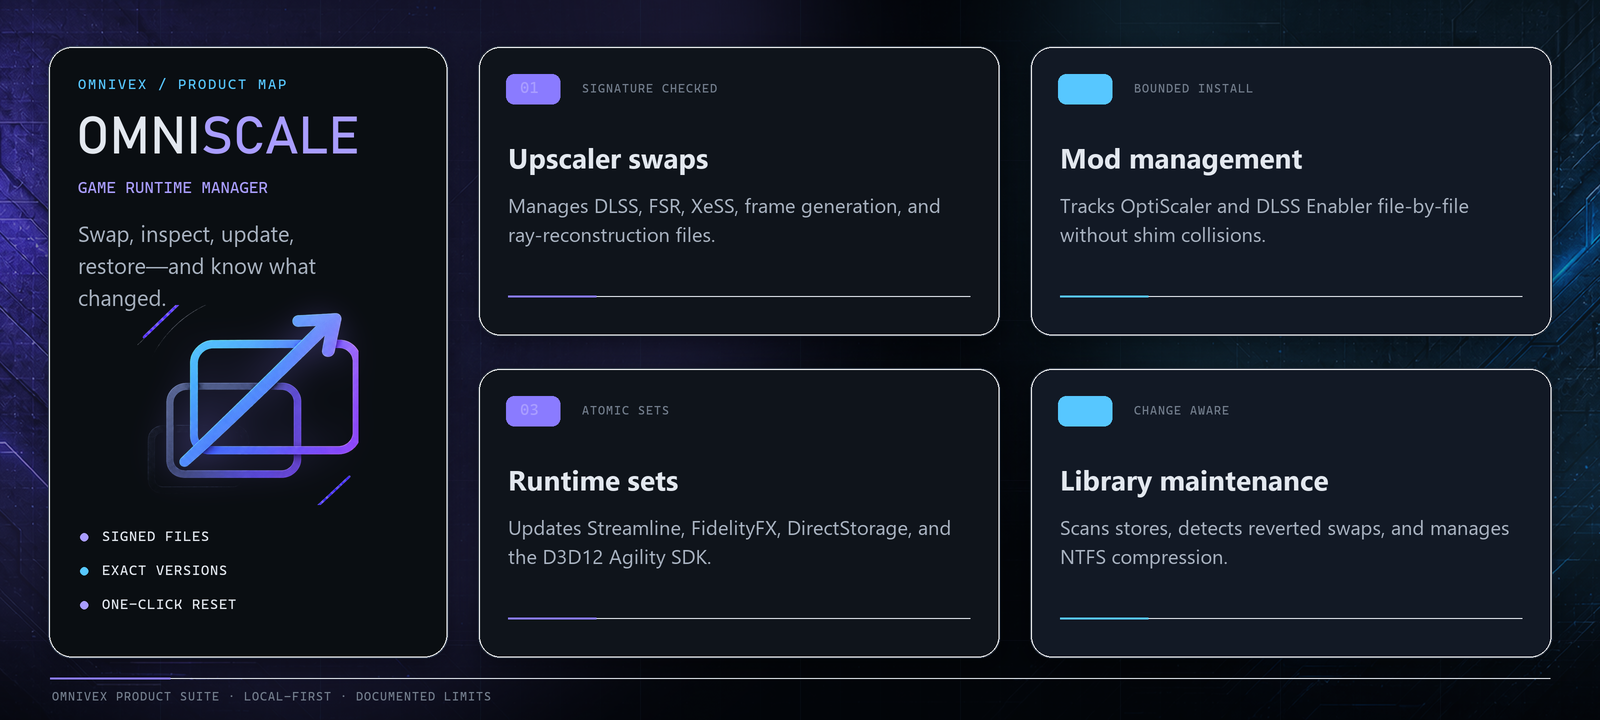
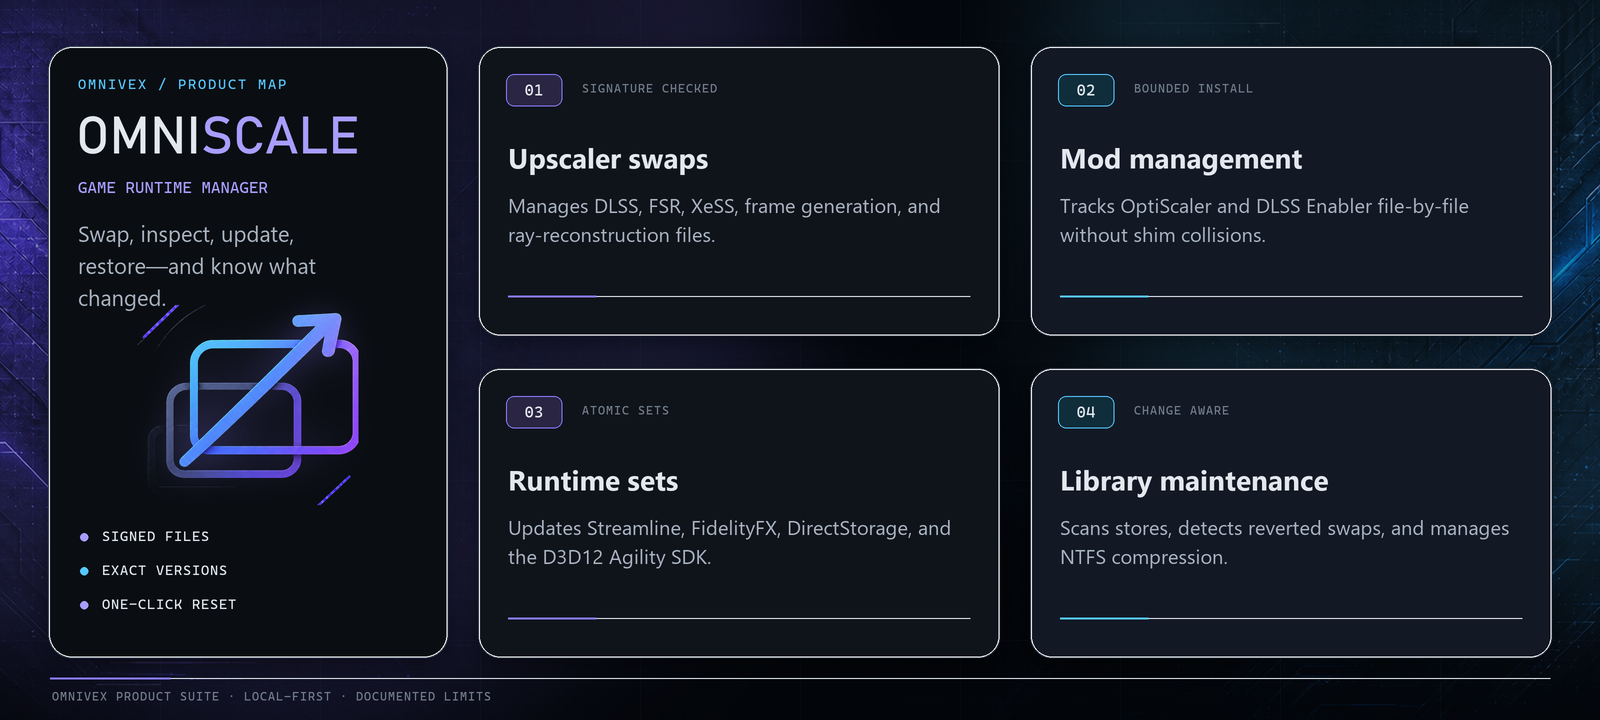
fix: show centered capability numbers (#12)

diff --git a/README.md b/README.md
@@ -49,7 +49,7 @@
 
 ## What it does
 
-![OmniScale capability map covering upscaler swaps, mod management, runtime sets, and game-library maintenance](assets/presentation/capabilities.png)
+![OmniScale capability map covering upscaler swaps, mod management, runtime sets, and game-library maintenance](assets/presentation/capabilities.png?v=20260823-visible-numbers-v3)
 
 **Swap the upscaler DLLs.** DLSS, DLSS Frame Generation, DLSS Ray Reconstruction,
 AMD FSR 3.1 (DirectX 12 and Vulkan), Intel XeSS up to XeSS 3, XeSS for DirectX 11,
